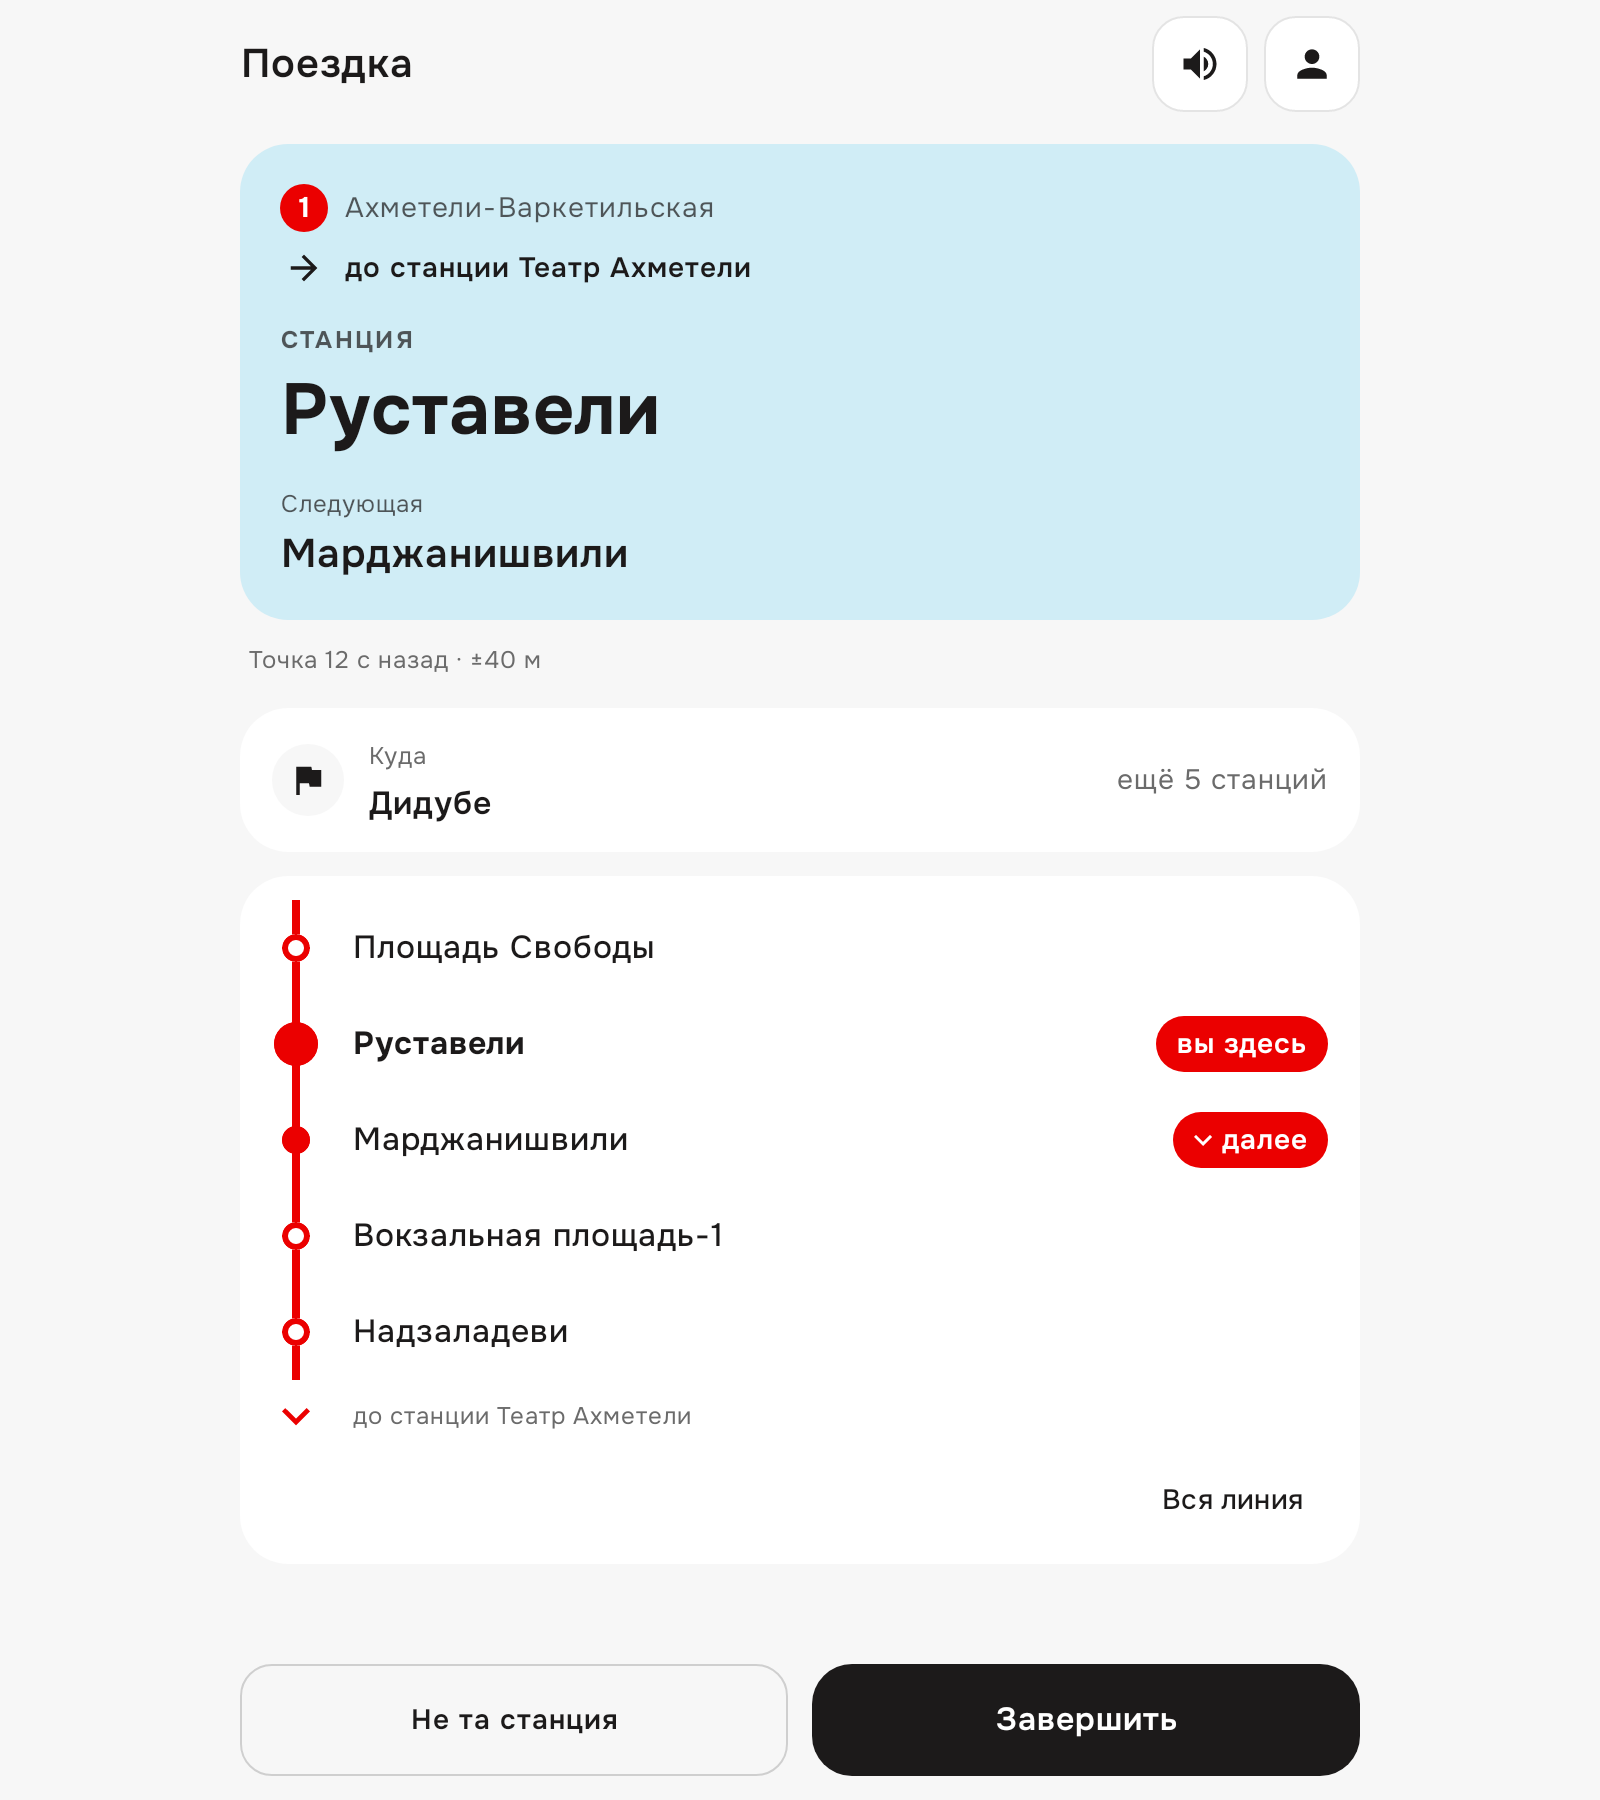
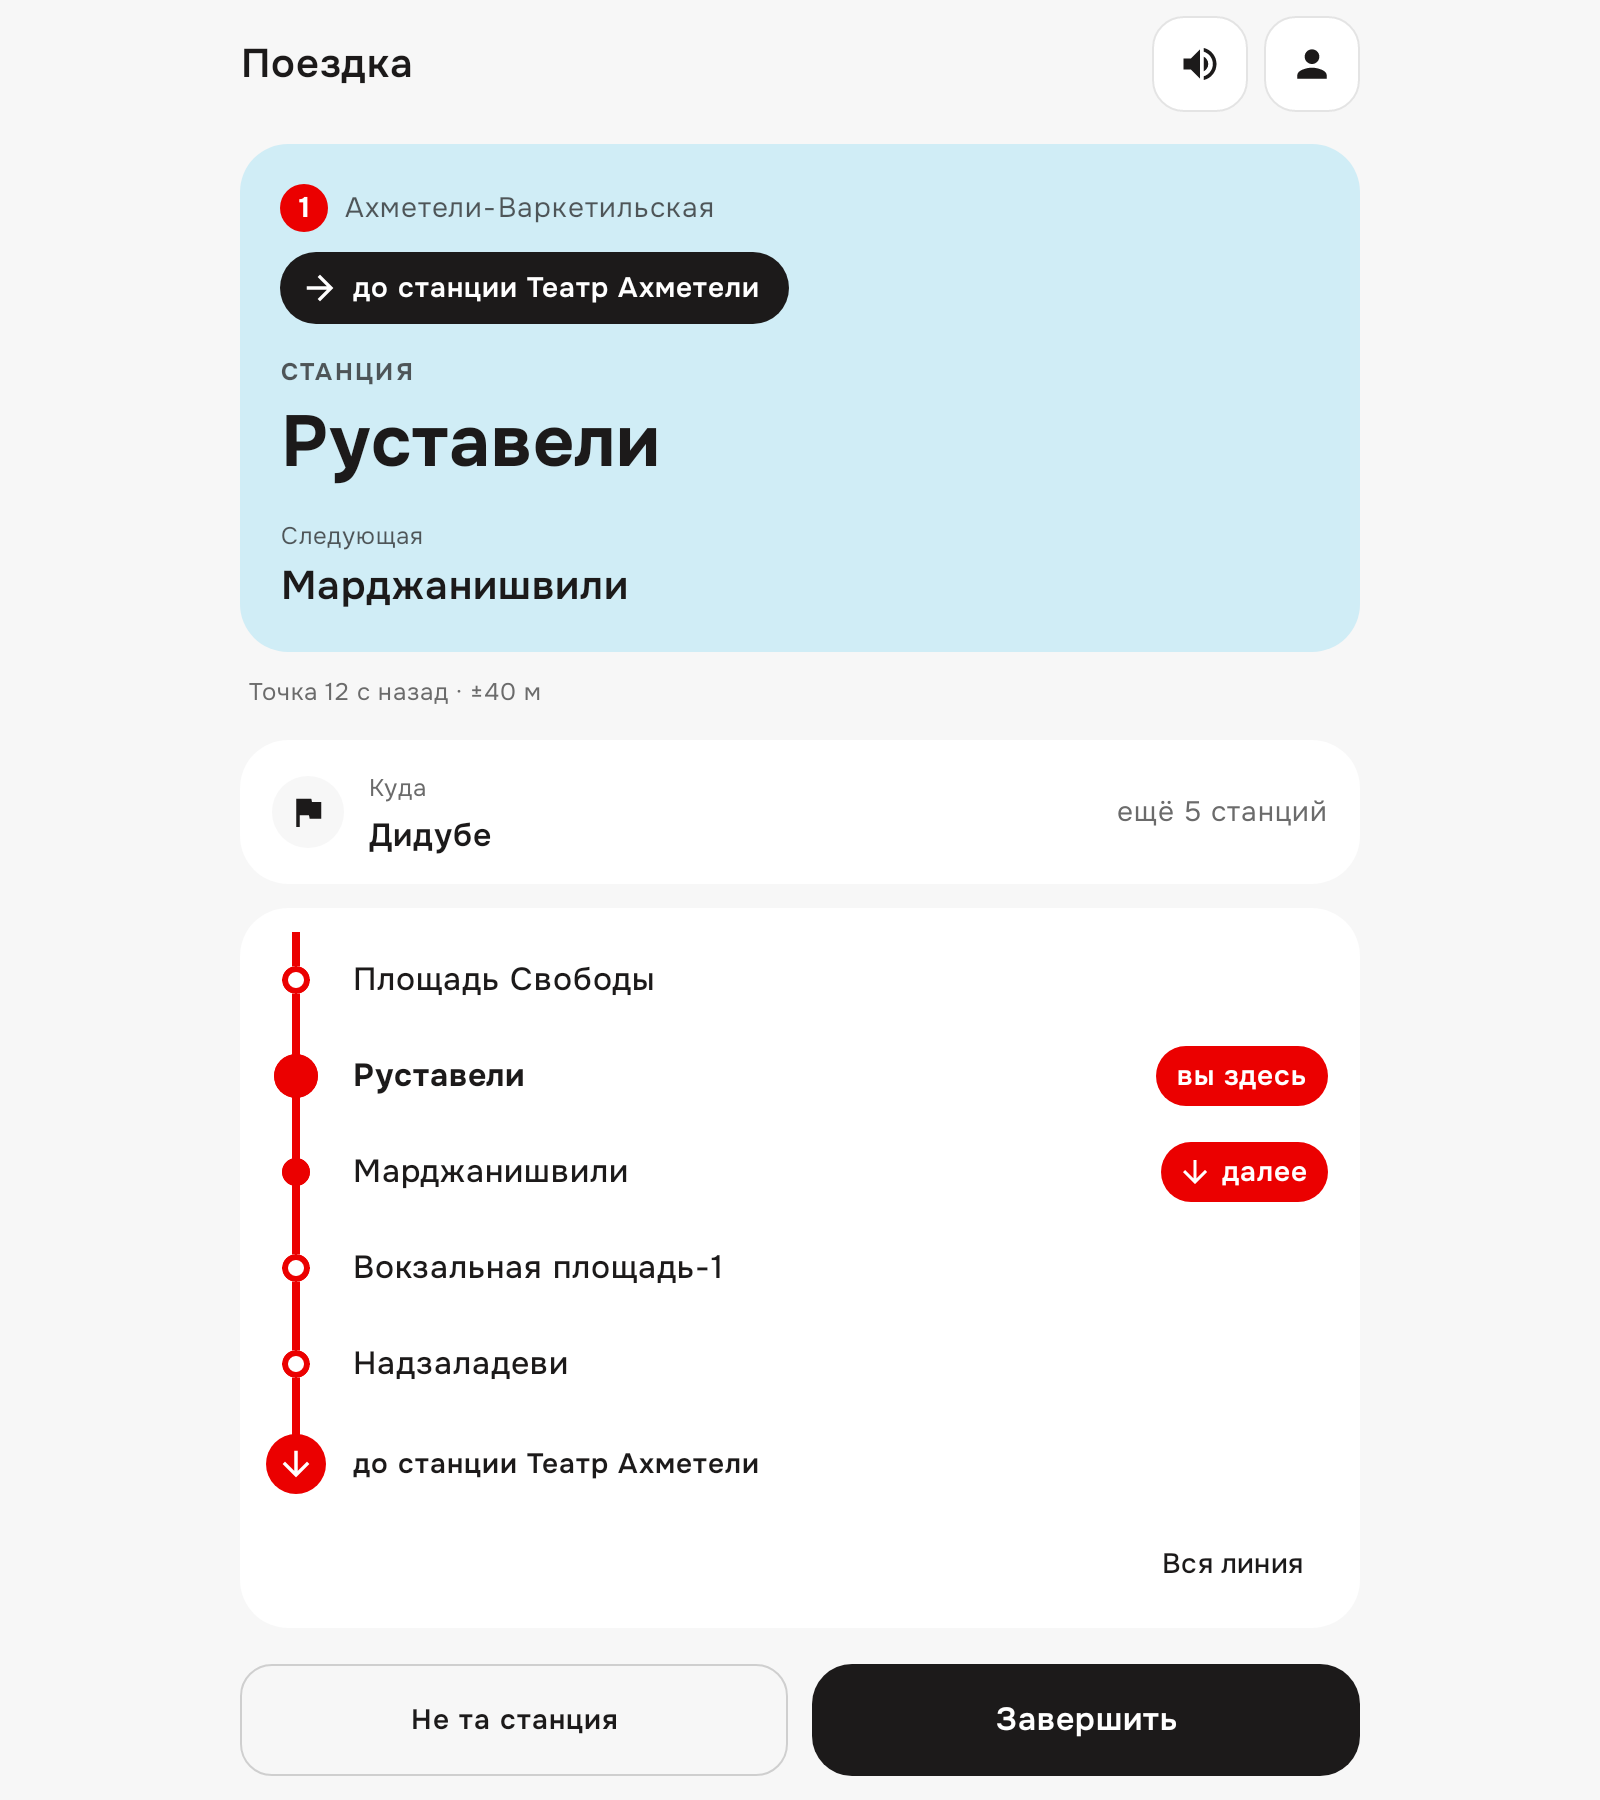
Make the direction of travel prominent
Solid ink pill with an arrow on the trip card and on the line screen, a
filled arrowhead that ends the route window, arrows with a shaft in tags.

Claude-Session: https://claude.ai/code/session_01LgcZnsWEvuykXZC56yduzi

diff --git a/metro-voice/app/src/main/kotlin/metrovoice/app/ui/Screens.kt b/metro-voice/app/src/main/kotlin/metrovoice/app/ui/Screens.kt
@@ -320,13 +320,7 @@ fun TripScreen(
                     Text(line.ruName(), fontSize = 14.sp, color = onTint)
                 }
                 if (towards != null) {
-                    Row(Modifier.padding(top = 6.dp), verticalAlignment = Alignment.CenterVertically) {
-                        Box(Modifier.width(24.dp), contentAlignment = Alignment.Center) {
-                            Icon(Icons.AutoMirrored.Filled.ArrowForward, contentDescription = null, modifier = Modifier.size(20.dp))
-                        }
-                        Spacer(Modifier.width(8.dp))
-                        Text("до станции ${network.ruName(towards.stationId)}", fontSize = 14.sp, fontWeight = FontWeight.SemiBold)
-                    }
+                    DirectionPill("до станции ${network.ruName(towards.stationId)}", down = null, modifier = Modifier.padding(top = 10.dp))
                 }
                 Spacer(Modifier.height(12.dp))
             }
@@ -474,12 +468,16 @@ private fun RouteWindow(network: MetroNetwork, line: Line, currentId: String?, n
         )
     }
     if (terminus >= 0 && window.last() != terminus) {
-        Row(Modifier.fillMaxWidth().heightIn(min = 36.dp), verticalAlignment = Alignment.CenterVertically) {
-            Box(Modifier.width(32.dp), contentAlignment = Alignment.Center) {
-                Icon(Icons.Default.KeyboardArrowDown, contentDescription = null, tint = color, modifier = Modifier.size(28.dp))
+        // The line runs on into a solid arrowhead: where the train is going, in the line's own colour.
+        Row(Modifier.fillMaxWidth().height(IntrinsicSize.Min).heightIn(min = 52.dp), verticalAlignment = Alignment.CenterVertically) {
+            Box(Modifier.width(32.dp).fillMaxHeight(), contentAlignment = Alignment.Center) {
+                Box(Modifier.width(4.dp).fillMaxHeight(0.5f).align(Alignment.TopCenter).background(color))
+                Box(Modifier.size(30.dp).clip(CircleShape).background(color), contentAlignment = Alignment.Center) {
+                    DirectionArrow(true, Color.White, Modifier.size(20.dp))
+                }
             }
             Spacer(Modifier.width(12.dp))
-            Text("до станции ${network.ruName(stations[terminus])}", fontSize = 12.sp, color = p.muted)
+            Text("до станции ${network.ruName(stations[terminus])}", fontSize = 14.sp, fontWeight = FontWeight.SemiBold, color = p.ink)
         }
     }
 }
@@ -513,14 +511,7 @@ private fun StationRow(
         }
         val tag: (@Composable () -> Unit)? = when {
             isCurrent -> ({ Tag("вы здесь", color) })
-            isNext -> ({
-                val arrow = arrowDown?.takeIf { nextSure }
-                Tag(
-                    if (nextSure) "далее" else "далее?", color,
-                    icon = arrow?.let { if (it) Icons.Default.KeyboardArrowDown else Icons.Default.KeyboardArrowUp },
-                    iconDescription = arrow?.let { if (it) "поезд идёт вниз по списку" else "поезд идёт вверх по списку" },
-                )
-            })
+            isNext -> ({ Tag(if (nextSure) "далее" else "далее?", color, arrowDown = arrowDown?.takeIf { nextSure }) })
             else -> null
         }
         val weight = if (isCurrent) FontWeight.Bold else FontWeight.Medium
@@ -598,6 +589,9 @@ fun LineScreen(
             else "${network.ruName(line.stations.first())} — ${network.ruName(line.stations.last())} · ${stationsCount(line.stations.size)}",
             fontSize = 14.sp, color = p.muted, modifier = Modifier.padding(top = 12.dp, bottom = 8.dp),
         )
+        if (arrowDown != null) {
+            DirectionPill("поезд идёт до станции ${network.ruName(line.stations[terminus])}", down = arrowDown, modifier = Modifier.padding(bottom = 12.dp))
+        }
         CardSurface(Modifier.fillMaxWidth().weight(1f).padding(bottom = 16.dp), padding = PaddingValues(start = 12.dp, end = 16.dp, top = 8.dp, bottom = 8.dp)) {
             LazyColumn(state = listState) {
                 items(line.stations, key = { it }) { id ->

diff --git a/metro-voice/app/src/main/kotlin/metrovoice/app/ui/Components.kt b/metro-voice/app/src/main/kotlin/metrovoice/app/ui/Components.kt
@@ -26,6 +26,7 @@ import androidx.compose.foundation.shape.RoundedCornerShape
 import androidx.compose.foundation.verticalScroll
 import androidx.compose.material.icons.Icons
 import androidx.compose.material.icons.automirrored.filled.ArrowBack
+import androidx.compose.material.icons.automirrored.filled.ArrowForward
 import androidx.compose.material3.Icon
 import androidx.compose.material3.Surface
 import androidx.compose.material3.Text
@@ -33,6 +34,7 @@ import androidx.compose.runtime.Composable
 import androidx.compose.ui.Alignment
 import androidx.compose.ui.Modifier
 import androidx.compose.ui.draw.clip
+import androidx.compose.ui.draw.rotate
 import androidx.compose.ui.geometry.CornerRadius
 import androidx.compose.ui.geometry.Offset
 import androidx.compose.ui.geometry.Size
@@ -183,12 +185,40 @@ fun LineBadge(line: Line, modifier: Modifier = Modifier, size: Dp = 28.dp) {
     }
 }
 
-/** Small status label on a coloured pill: "вы здесь", "далее". [icon] shows the direction of travel. */
+/** Arrow with a shaft, turned to where the train goes. [down] null = to the right (no list to follow). */
 @Composable
-fun Tag(text: String, color: Color, icon: ImageVector? = null, iconDescription: String? = null) {
+fun DirectionArrow(down: Boolean?, tint: Color, modifier: Modifier = Modifier, description: String? = null) {
+    Icon(
+        Icons.AutoMirrored.Filled.ArrowForward, contentDescription = description, tint = tint,
+        modifier = modifier.rotate(when (down) { true -> 90f; false -> -90f; null -> 0f }),
+    )
+}
+
+/** The direction of travel as a solid ink pill: the loudest secondary element on the screen. */
+@Composable
+fun DirectionPill(text: String, down: Boolean?, modifier: Modifier = Modifier) {
+    val p = LocalPalette.current
+    Surface(shape = RoundedCornerShape(50), color = p.ink, contentColor = p.onInk, modifier = modifier) {
+        Row(Modifier.padding(start = 10.dp, end = 14.dp, top = 6.dp, bottom = 6.dp), verticalAlignment = Alignment.CenterVertically) {
+            DirectionArrow(down, p.onInk, Modifier.size(20.dp))
+            Spacer(Modifier.width(6.dp))
+            Text(text, fontSize = 14.sp, fontWeight = FontWeight.SemiBold)
+        }
+    }
+}
+
+/** Small status label on a coloured pill: "вы здесь", "далее". [arrowDown] adds the direction of travel. */
+@Composable
+fun Tag(text: String, color: Color, arrowDown: Boolean? = null) {
     Surface(shape = RoundedCornerShape(50), color = color, modifier = Modifier.padding(vertical = 4.dp)) {
-        Row(Modifier.padding(start = if (icon != null) 6.dp else 10.dp, end = 10.dp, top = 2.dp, bottom = 2.dp), verticalAlignment = Alignment.CenterVertically) {
-            if (icon != null) Icon(icon, contentDescription = iconDescription, tint = Color.White, modifier = Modifier.size(18.dp))
+        Row(Modifier.padding(start = if (arrowDown != null) 8.dp else 10.dp, end = 10.dp, top = 3.dp, bottom = 3.dp), verticalAlignment = Alignment.CenterVertically) {
+            if (arrowDown != null) {
+                DirectionArrow(
+                    arrowDown, Color.White, Modifier.size(18.dp),
+                    description = if (arrowDown) "поезд идёт вниз по списку" else "поезд идёт вверх по списку",
+                )
+                Spacer(Modifier.width(4.dp))
+            }
             Text(text, color = Color.White, fontSize = 14.sp, fontWeight = FontWeight.SemiBold, maxLines = 1)
         }
     }

diff --git a/metro-voice/app/src/main/kotlin/metrovoice/app/TripService.kt b/metro-voice/app/src/main/kotlin/metrovoice/app/TripService.kt
@@ -165,7 +165,7 @@ class TripService : LifecycleService() {
         speaker = Speaker(this) { lang -> TripBus.update { it.copy(missingVoices = it.missingVoices + lang) } }
 
         handler.post {
-            trace?.write(TraceRecord.Meta(0.0, net.graph.city, "${Build.MANUFACTURER} ${Build.MODEL} API ${Build.VERSION.SDK_INT}", "0.6.1"))
+            trace?.write(TraceRecord.Meta(0.0, net.graph.city, "${Build.MANUFACTURER} ${Build.MODEL} API ${Build.VERSION.SDK_INT}", "0.6.2"))
             engine = TripEngine(net, listOf("ru", "en"), listener = EngineListener()).also { e ->
                 TripBus.state.value.destination?.let {
                     trace?.write(TraceRecord.Dest(0.0, it))
